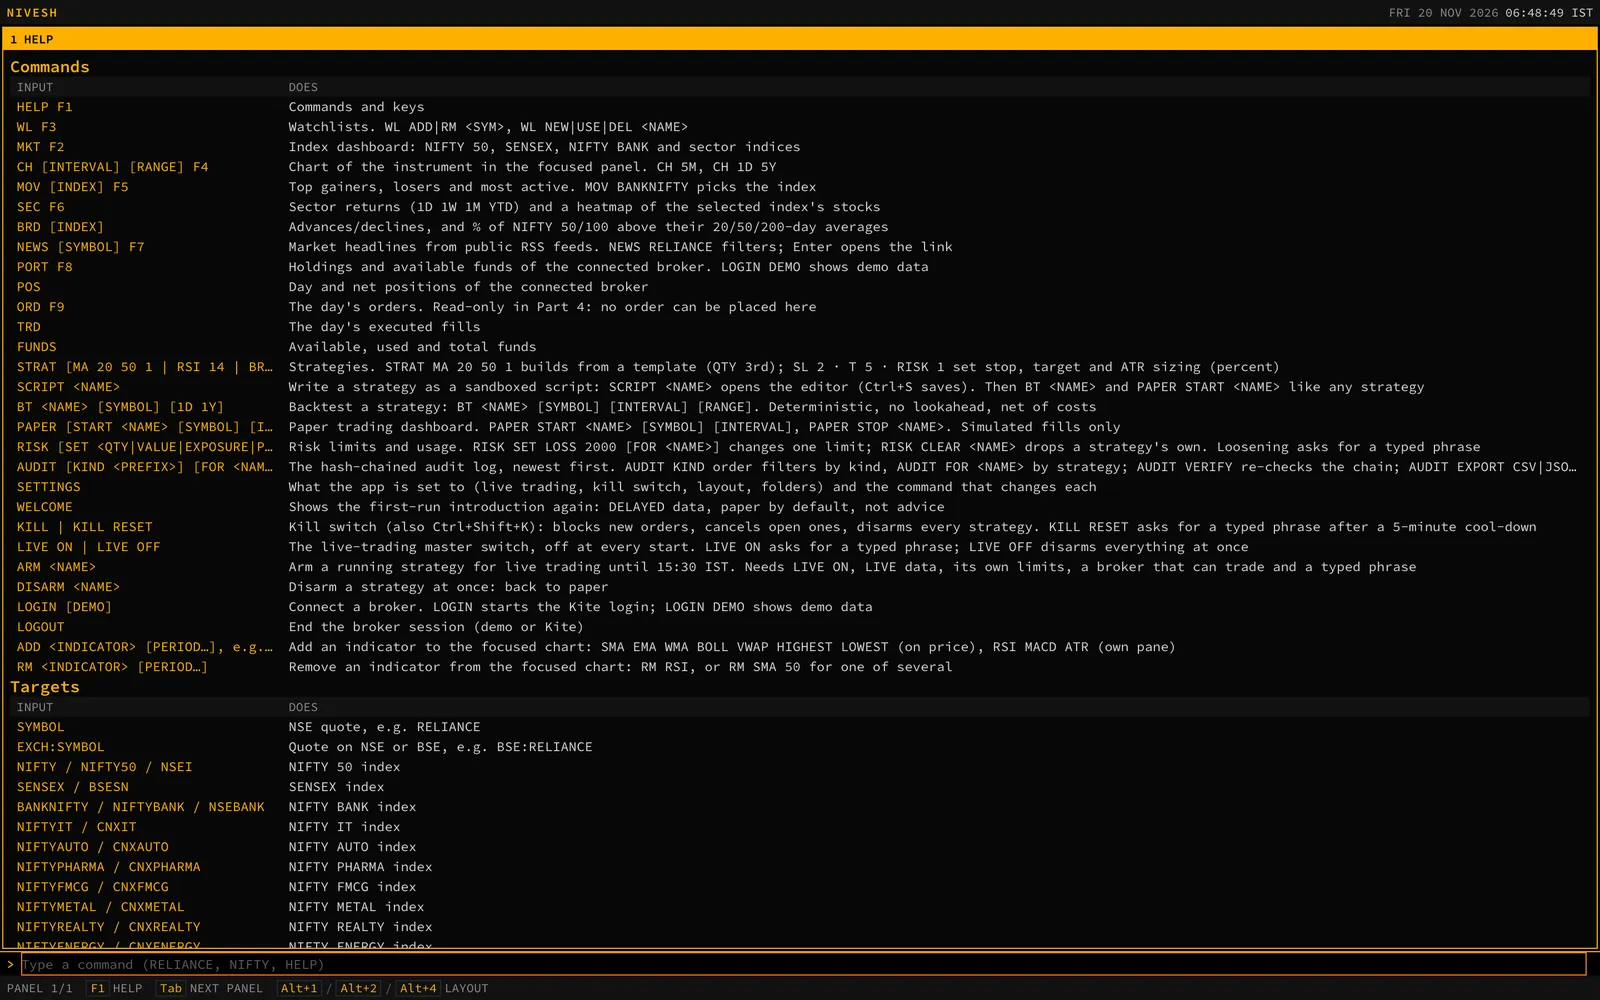
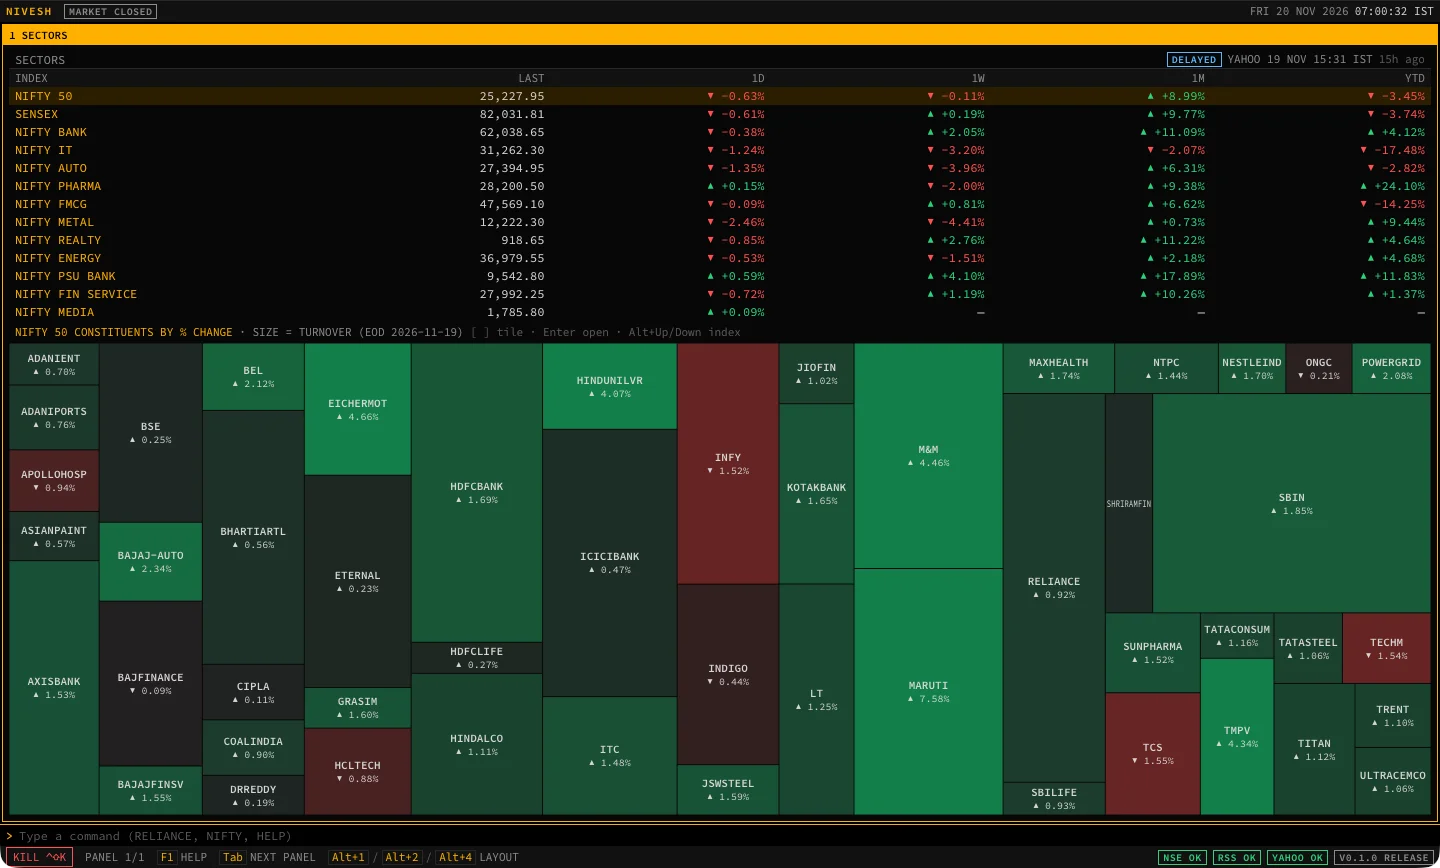
docs: use a real app screenshot on the landing page

diff --git a/site/index.html b/site/index.html
@@ -34,7 +34,7 @@
     </section>
 
     <figure class="shot">
-      <img src="/screenshot.webp" alt="Nivesh showing its HELP panel: every command, its function key and what it does." width="1600" height="1000">
+      <img src="/screenshot.webp" alt="Nivesh's SEC view: returns for NIFTY sector indices, and a heatmap of NIFTY 50 stocks sized by turnover and coloured by change." width="1440" height="868">
     </figure>
 
     <section>
